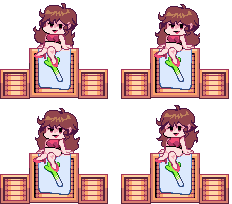
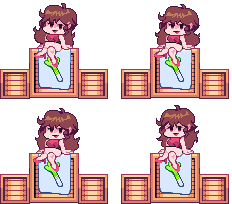
tomongus bg
- added tomongus bg
- tomongus character and camera positions
- made it so screen doesnt start bumping until opponent hits first note
  - this also applies to the add camera zoom event

diff --git a/src/character/bfpixel.c b/src/character/bfpixel.c
@@ -85,40 +85,40 @@ static const CharFrame char_bfpixel_frame[] = {
   {BFPixel_ArcMain_RightM0, {  0,  0, 54, 60}, {162,158}}, //19 rightm 1
   {BFPixel_ArcMain_RightM0, { 54,  0, 53, 59}, {162,157}}, //20 rightm 2
   
-  {BFPixel_ArcMain_IdleS0, {  0,  0, 55, 56}, {165,154}}, //21 idles 1
-  {BFPixel_ArcMain_IdleS0, { 55,  0, 53, 56}, {164,154}}, //22 idles 2
-  {BFPixel_ArcMain_IdleS0, {108,  0, 53, 58}, {163,156}}, //23 idles 3
-  {BFPixel_ArcMain_IdleS0, {161,  0, 53, 59}, {163,157}}, //24 idles 4
-  {BFPixel_ArcMain_IdleS0, {  0, 59, 54, 59}, {164,157}}, //25 idles 5
+  {BFPixel_ArcMain_IdleS0, {  0,  0, 55, 56}, {165+2,154}}, //21 idles 1
+  {BFPixel_ArcMain_IdleS0, { 55,  0, 53, 56}, {164+2,154}}, //22 idles 2
+  {BFPixel_ArcMain_IdleS0, {108,  0, 53, 58}, {163+2,156}}, //23 idles 3
+  {BFPixel_ArcMain_IdleS0, {161,  0, 53, 59}, {163+2,157}}, //24 idles 4
+  {BFPixel_ArcMain_IdleS0, {  0, 59, 54, 59}, {164+2,157}}, //25 idles 5
 
-  {BFPixel_ArcMain_LeftS0, {  0,  0, 53, 59}, {166,157}}, //26 lefts 1
-  {BFPixel_ArcMain_LeftS0, { 53,  0, 52, 59}, {165,157}}, //27 lefts 2
+  {BFPixel_ArcMain_LeftS0, {  0,  0, 53, 59}, {166+2,157}}, //26 lefts 1
+  {BFPixel_ArcMain_LeftS0, { 53,  0, 52, 59}, {165+2,157}}, //27 lefts 2
 
-  {BFPixel_ArcMain_DownS0, {  0,  0, 53, 58}, {164,153}}, //28 downs 1
-  {BFPixel_ArcMain_DownS0, { 53,  0, 51, 58}, {163,154}}, //29 downs 2
+  {BFPixel_ArcMain_DownS0, {  0,  0, 53, 58}, {164+2,153}}, //28 downs 1
+  {BFPixel_ArcMain_DownS0, { 53,  0, 51, 58}, {163+2,154}}, //29 downs 2
 
-  {BFPixel_ArcMain_UpS0, {  0,  0, 57, 62}, {164,160}}, //30 ups 1
-  {BFPixel_ArcMain_UpS0, { 57,  0, 58, 61}, {165,159}}, //31 ups 2
+  {BFPixel_ArcMain_UpS0, {  0,  0, 57, 62}, {164+2,160}}, //30 ups 1
+  {BFPixel_ArcMain_UpS0, { 57,  0, 58, 61}, {165+2,159}}, //31 ups 2
 
-  {BFPixel_ArcMain_RightS0, {  0,  0, 50, 59}, {157,156}}, //32 rights 1
-  {BFPixel_ArcMain_RightS0, { 50,  0, 51, 59}, {158,156}}, //33 rights 2
+  {BFPixel_ArcMain_RightS0, {  0,  0, 50, 59}, {157+2,156}}, //32 rights 1
+  {BFPixel_ArcMain_RightS0, { 50,  0, 51, 59}, {158+2,156}}, //33 rights 2
 
-  {BFPixel_ArcMain_LeftSM0, {  0,  0, 51, 59}, {165,157}}, //34 leftsm 1
-  {BFPixel_ArcMain_LeftSM0, { 51,  0, 52, 59}, {165,157}}, //35 leftsm 2
+  {BFPixel_ArcMain_LeftSM0, {  0,  0, 51, 59}, {165+2,157}}, //34 leftsm 1
+  {BFPixel_ArcMain_LeftSM0, { 51,  0, 52, 59}, {165+2,157}}, //35 leftsm 2
 
-  {BFPixel_ArcMain_DownSM0, {  0,  0, 52, 61}, {164,156}}, //36 downsm 1
-  {BFPixel_ArcMain_DownSM0, { 52,  0, 51, 59}, {163,155}}, //37 downsm 2
+  {BFPixel_ArcMain_DownSM0, {  0,  0, 52, 61}, {164+2,156}}, //36 downsm 1
+  {BFPixel_ArcMain_DownSM0, { 52,  0, 51, 59}, {163+2,155}}, //37 downsm 2
 
-  {BFPixel_ArcMain_UpSM0, {  0,  0, 56, 62}, {163,160}}, //38 upsm 1
-  {BFPixel_ArcMain_UpSM0, { 56,  0, 58, 61}, {165,159}}, //39 upsm 2
+  {BFPixel_ArcMain_UpSM0, {  0,  0, 56, 62}, {163+2,160}}, //38 upsm 1
+  {BFPixel_ArcMain_UpSM0, { 56,  0, 58, 61}, {165+2,159}}, //39 upsm 2
 
-  {BFPixel_ArcMain_RighSM0, {  0,  0, 52, 61}, {158,158}}, //40 righsm 1
-  {BFPixel_ArcMain_RighSM0, { 52,  0, 51, 60}, {158,157}}, //41 righsm 2
+  {BFPixel_ArcMain_RighSM0, {  0,  0, 52, 61}, {158+2,158}}, //40 righsm 1
+  {BFPixel_ArcMain_RighSM0, { 52,  0, 51, 60}, {158+2,157}}, //41 righsm 2
 
-  {BFPixel_ArcMain_Shoot0, {  0,  0, 60, 58}, {167,156}}, //42 shoot 1
-  {BFPixel_ArcMain_Shoot0, { 60,  0, 62, 58}, {169,156}}, //43 shoot 2
-  {BFPixel_ArcMain_Shoot0, {122,  0, 63, 58}, {170,156}}, //44 shoot 3
-  {BFPixel_ArcMain_Shoot0, {185,  0, 56, 59}, {166,157}}, //45 shoot 4
+  {BFPixel_ArcMain_Shoot0, {  0,  0, 60, 58}, {167+2,156}}, //42 shoot 1
+  {BFPixel_ArcMain_Shoot0, { 60,  0, 62, 58}, {169+2,156}}, //43 shoot 2
+  {BFPixel_ArcMain_Shoot0, {122,  0, 63, 58}, {170+2,156}}, //44 shoot 3
+  {BFPixel_ArcMain_Shoot0, {185,  0, 56, 59}, {166+2,157}}, //45 shoot 4
 };
 
 static const Animation char_bfpixel_anim[PlayerAnim_Max] = {
@@ -281,9 +281,9 @@ Character *Char_BFPixel_New(fixed_t x, fixed_t y)
 	//health bar color
 	this->character.health_bar = 0xFF7BD6F6;
 
-	this->character.focus_x = FIXED_DEC(-50,1);
-	this->character.focus_y = FIXED_DEC(-65,1);
-	this->character.focus_zoom = FIXED_DEC(1,1);
+	this->character.focus_x = FIXED_DEC(-182,1);
+	this->character.focus_y = FIXED_DEC(-148,1);
+	this->character.focus_zoom = FIXED_DEC(511,256);
 	
 	this->character.size = FIXED_DEC(1,1);
 

diff --git a/src/stage.c b/src/stage.c
@@ -45,6 +45,7 @@ static const u8 note_anims[4][3] = {
 //Stage definitions
 boolean noteshake;
 boolean show;
+boolean firsthit;
 fixed_t fade;
 fixed_t fade, fadespd;
 static u32 Sounds[10];
@@ -81,6 +82,7 @@ static u32 Sounds[10];
 //Stages
 #include "stage/airship.h"
 #include "stage/lobby.h"
+#include "stage/cafeteria.h"
 #include "stage/henry.h"
 #include "stage/idk.h"
 #include "stage/week1.h"
@@ -1447,7 +1449,7 @@ static void Stage_LoadSFX(void)
     }
 	
 	//tomongus shot sound
-	if (stage.stage_id == StageId_Rivals)
+	if ((stage.stage_id == StageId_SussyBussy) || (stage.stage_id == StageId_Rivals))
 	{
 		char text[0x80];
 		sprintf(text, "\\SOUNDS\\TOMSHOT.VAG;1");
@@ -1563,11 +1565,13 @@ static void Stage_LoadMusic(void)
 	if (stage.stage_id == StageId_Temp) //PLACEHOLDER
 	{
 		stage.intro = true;
+		firsthit = false;
 		stage.note_scroll = FIXED_DEC(-5 * 6 * 12,1);
 	}
 	else
 	{
 		stage.intro = true;
+		firsthit = false;
 		stage.note_scroll = FIXED_DEC(-5 * 6 * 12,1);
 	}
 	stage.song_time = FIXED_DIV(stage.note_scroll, stage.step_crochet);
@@ -1712,13 +1716,13 @@ void Stage_Load(StageId id, StageDiff difficulty, boolean story)
 	
 	//Load death screen texture
 	if (stage.stage_id == StageId_Roomcode)
-		Gfx_LoadTex(&stage.tex_ded, IO_Read("\\CHAR\\DEADPCO.TIM;1"), GFX_LOADTEX_FREE);
+		Gfx_LoadTex(&stage.tex_ded, IO_Read("\\DEAD\\DEADPCO.TIM;1"), GFX_LOADTEX_FREE);
 	else if ((stage.stage_id >= StageId_SussyBussy) && (stage.stage_id <= StageId_Chewmate))
-		Gfx_LoadTex(&stage.tex_ded, IO_Read("\\CHAR\\DEADPIX.TIM;1"), GFX_LOADTEX_FREE);
+		Gfx_LoadTex(&stage.tex_ded, IO_Read("\\DEAD\\DEADPIX.TIM;1"), GFX_LOADTEX_FREE);
 	else if (stage.stage_id == StageId_Idk)
-		Gfx_LoadTex(&stage.tex_ded, IO_Read("\\CHAR\\DEADKID.TIM;1"), GFX_LOADTEX_FREE);
+		Gfx_LoadTex(&stage.tex_ded, IO_Read("\\DEAD\\DEADKID.TIM;1"), GFX_LOADTEX_FREE);
 	else
-		Gfx_LoadTex(&stage.tex_ded, IO_Read("\\CHAR\\DEAD.TIM;1"), GFX_LOADTEX_FREE);
+		Gfx_LoadTex(&stage.tex_ded, IO_Read("\\DEAD\\DEAD.TIM;1"), GFX_LOADTEX_FREE);
 
 	//Load stage background
 	Stage_LoadStage();
@@ -2227,12 +2231,14 @@ void Stage_Tick(void)
 			}
             
 			//Handle bump
-			if ((stage.bump = FIXED_UNIT + FIXED_MUL(stage.bump - FIXED_UNIT, FIXED_DEC(95,100))) <= FIXED_DEC(1003,1000))
-				stage.bump = FIXED_UNIT;
+			if ((firsthit == true) || (stage.song_step <= -1))
+			{
+				if ((stage.bump = FIXED_UNIT + FIXED_MUL(stage.bump - FIXED_UNIT, FIXED_DEC(95,100))) <= FIXED_DEC(1003,1000))
+					stage.bump = FIXED_UNIT;
+				if ((stage.charbump = FIXED_UNIT + FIXED_MUL(stage.charbump - FIXED_UNIT, FIXED_DEC(95,100))) <= FIXED_DEC(1003,1000))
+					stage.charbump = FIXED_UNIT;
+			}
 			stage.sbump = FIXED_UNIT + FIXED_MUL(stage.sbump - FIXED_UNIT, FIXED_DEC(60,100));
-			
-			if ((stage.charbump = FIXED_UNIT + FIXED_MUL(stage.charbump - FIXED_UNIT, FIXED_DEC(95,100))) <= FIXED_DEC(1003,1000))
-				stage.charbump = FIXED_UNIT;
 			
 			if (playing && (stage.flag & STAGE_FLAG_JUST_STEP))
 			{
@@ -2242,12 +2248,15 @@ void Stage_Tick(void)
 				is_bump_step = (stage.song_step & 0xF) == 0;
 				
 				//Bump screen
-				if((stage.stage_id != StageId_Idk))
+				if (firsthit == true)
 				{
-					if (is_bump_step)
+					if((stage.stage_id != StageId_VotingTime) && (stage.stage_id != StageId_Who) && (stage.stage_id != StageId_Idk))
 					{
-						stage.bump = FIXED_DEC(103,100);
-						stage.charbump += FIXED_DEC(15,1000); //0.015
+						if (is_bump_step)
+						{
+							stage.bump = FIXED_DEC(103,100);
+							stage.charbump += FIXED_DEC(15,1000); //0.015
+						}
 					}
 				}
 
@@ -2381,6 +2390,9 @@ void Stage_Tick(void)
 						//Opponent note hits
 						if (playing && ((note->type ^ stage.note_swap) & NOTE_FLAG_OPPONENT) && !(note->type & NOTE_FLAG_HIT))
 						{
+							if (firsthit == false)
+								firsthit = true;
+							
 							//Opponent hits note
 							stage.player_state[1].arrow_hitan[note->type & 0x3] = stage.step_time;
 							Stage_StartVocal();

diff --git a/src/stage/cafeteria.c b/src/stage/cafeteria.c
@@ -1,0 +1,89 @@
+/*
+  This Source Code Form is subject to the terms of the Mozilla Public
+  License, v. 2.0. If a copy of the MPL was not distributed with this
+  file, You can obtain one at http://mozilla.org/MPL/2.0/.
+*/
+
+#include "cafeteria.h"
+
+#include "../archive.h"
+#include "../mem.h"
+#include "../stage.h"
+#include "../random.h"
+#include "../timer.h"
+#include "../animation.h"
+
+//Cafeteria background structure
+typedef struct
+{
+	//Stage background base structure
+	StageBack back;
+	
+	//Textures
+	Gfx_Tex tex_back0; //back0
+	Gfx_Tex tex_back1; //back1
+
+} Back_Cafeteria;
+
+
+void Back_Cafeteria_DrawBG(StageBack *back)
+{
+	Back_Cafeteria *this = (Back_Cafeteria*)back;
+
+	fixed_t fx, fy;
+
+	//Draw cafeteria
+	fx = stage.camera.x;
+	fy = stage.camera.y;
+	
+	RECT back0_src = {  0,  0,156,161};
+	RECT_FIXED back0_dst = {
+		FIXED_DEC(0 - screen.SCREEN_WIDEOADD2,1) - fx,
+		FIXED_DEC(0,1) - fy,
+		FIXED_DEC(156 + screen.SCREEN_WIDEOADD,1),
+		FIXED_DEC(161,1)
+	};
+	
+	RECT back1_src = {  0,  0,156,161};
+	RECT_FIXED back1_dst = {
+		FIXED_DEC(155 - screen.SCREEN_WIDEOADD2,1) - fx,
+		FIXED_DEC(0,1) - fy,
+		FIXED_DEC(156 + screen.SCREEN_WIDEOADD,1),
+		FIXED_DEC(161,1)
+	};
+	
+	Debug_StageMoveDebug(&back0_dst, 5, fx, fy);
+	Debug_StageMoveDebug(&back1_dst, 6, fx, fy);
+	Stage_DrawTex(&this->tex_back0, &back0_src, &back0_dst, stage.camera.bzoom);
+	Stage_DrawTex(&this->tex_back1, &back1_src, &back1_dst, stage.camera.bzoom);
+}
+
+void Back_Cafeteria_Free(StageBack *back)
+{
+	Back_Cafeteria *this = (Back_Cafeteria*)back;
+	
+	//Free structure
+	Mem_Free(this);
+}
+
+StageBack *Back_Cafeteria_New(void)
+{
+	//Allocate background structure
+	Back_Cafeteria *this = (Back_Cafeteria*)Mem_Alloc(sizeof(Back_Cafeteria));
+	if (this == NULL)
+		return NULL;
+	
+	//Set background functions
+	this->back.draw_fg = NULL;
+	this->back.draw_md = NULL;
+	this->back.draw_bg = Back_Cafeteria_DrawBG;
+	this->back.free = Back_Cafeteria_Free;
+	
+	//Load background textures
+	IO_Data arc_back = IO_Read("\\BG\\CAFE.ARC;1");
+	Gfx_LoadTex(&this->tex_back0, Archive_Find(arc_back, "back0.tim"), 0);
+	Gfx_LoadTex(&this->tex_back1, Archive_Find(arc_back, "back1.tim"), 0);
+	Mem_Free(arc_back);
+	
+	return (StageBack*)this;
+}

diff --git a/src/stagedef_disc1.h b/src/stagedef_disc1.h
@@ -543,50 +543,50 @@
 	
 	{ //StageId_SussyBussy (Sussy Bussy)
 		//Characters
-		{Char_BFPixel_New,    FIXED_DEC(60,1),  FIXED_DEC(100,1)},
+		{Char_BFPixel_New,    FIXED_DEC(342,1),  FIXED_DEC(226,1)},
         {NULL},
-		{Char_Tomongus_New, FIXED_DEC(-20,1),  FIXED_DEC(100,1)},
-        {NULL},
-		{Char_GFPixel_New,     FIXED_DEC(0,1),  FIXED_DEC(-10,1)},
+		{Char_Tomongus_New, FIXED_DEC(198,1),  FIXED_DEC(229,1)},
+        {Char_TomongusH_New, FIXED_DEC(198,1),  FIXED_DEC(233,1)},
+		{Char_GFPixel_New,     FIXED_DEC(258,1),  FIXED_DEC(174,1)},
 		
 		//Stage background
-		Back_Dummy_New,
+		Back_Cafeteria_New,
 		
 		//Song info
 		4, 1,
 		XA_SussyBussy, 0,
 		"Sussy Bussy",
 		
-		StageId_Rivals, 0
+		StageId_Rivals, STAGE_LOAD_FLAG
 	},
 	{ //StageId_Rivals (Rivals)
 		//Characters
-		{Char_BFPixel_New,    FIXED_DEC(60,1),  FIXED_DEC(100,1)},
+		{Char_BFPixel_New,    FIXED_DEC(342,1),  FIXED_DEC(226,1)},
         {NULL},
-		{Char_Tomongus_New, FIXED_DEC(-20,1),  FIXED_DEC(100,1)},
-        {Char_TomongusH_New, FIXED_DEC(-20,1),  FIXED_DEC(104,1)},
-		{Char_GFPixel_New,     FIXED_DEC(0,1),  FIXED_DEC(-10,1)},
+		{Char_Tomongus_New, FIXED_DEC(198,1),  FIXED_DEC(229,1)},
+        {Char_TomongusH_New, FIXED_DEC(198,1),  FIXED_DEC(233,1)},
+		{Char_GFPixel_New,     FIXED_DEC(258,1),  FIXED_DEC(174,1)},
 		
 		//Stage background
-		Back_Dummy_New,
+		Back_Cafeteria_New,
 		
 		//Song info
 		4, 2,
 		XA_Rivals, 2,
 		"Rivals",
 		
-		StageId_Chewmate, 0
+		StageId_Chewmate, STAGE_LOAD_FLAG | STAGE_LOAD_OPPONENT | STAGE_LOAD_OPPONENT2
 	},
 	{ //StageId_Chewmate (Chewmate)
 		//Characters
-		{Char_BFPixel_New,    FIXED_DEC(60,1),  FIXED_DEC(100,1)},
+		{Char_BFPixel_New,    FIXED_DEC(342,1),  FIXED_DEC(226,1)},
         {NULL},
-		{Char_TomongusH_New, FIXED_DEC(-20,1),  FIXED_DEC(100,1)},
+        {Char_TomongusH_New, FIXED_DEC(198,1),  FIXED_DEC(233,1)},
         {NULL},
-		{Char_GFPixel_New,     FIXED_DEC(0,1),  FIXED_DEC(-10,1)},
+		{Char_GFPixel_New,     FIXED_DEC(258,1),  FIXED_DEC(174,1)},
 		
 		//Stage background
-		Back_Dummy_New,
+		Back_Cafeteria_New,
 		
 		//Song info
 		4, 3,

diff --git a/src/character/tomongush.c b/src/character/tomongush.c
@@ -97,7 +97,7 @@ void Char_TomongusH_Tick(Character *character)
 	
 	//Animate and draw
 	Animatable_Animate(&character->animatable, (void*)this, Char_TomongusH_SetFrame);
-	if (stage.stage_id != StageId_Rivals)
+	if ((stage.stage_id != StageId_SussyBussy) && (stage.stage_id != StageId_Rivals))
 		Character_Draw(character, &this->tex, &char_tomongush_frame[this->frame]);
 	else if ((stage.stage_id == StageId_Rivals) && (stage.song_step >= 1034))
 		Character_Draw(character, &this->tex, &char_tomongush_frame[this->frame]);
@@ -145,9 +145,9 @@ Character *Char_TomongusH_New(fixed_t x, fixed_t y)
 	//health bar color
 	this->character.health_bar = 0xFFF8A572;
 	
-	this->character.focus_x = FIXED_DEC(65,1);
-	this->character.focus_y = FIXED_DEC(-115,1);
-	this->character.focus_zoom = FIXED_DEC(1,1);
+	this->character.focus_x = FIXED_DEC(-82,1);
+	this->character.focus_y = FIXED_DEC(-155,1);
+	this->character.focus_zoom = FIXED_DEC(511,256);
 	
 	this->character.size = FIXED_DEC(1,1);
 	

diff --git a/src/character/tomongus.c b/src/character/tomongus.c
@@ -148,9 +148,9 @@ Character *Char_Tomongus_New(fixed_t x, fixed_t y)
 	//health bar color
 	this->character.health_bar = 0xFFFF6770;
 	
-	this->character.focus_x = FIXED_DEC(65,1);
-	this->character.focus_y = FIXED_DEC(-115,1);
-	this->character.focus_zoom = FIXED_DEC(1,1);
+	this->character.focus_x = FIXED_DEC(-82,1);
+	this->character.focus_y = FIXED_DEC(-151,1);
+	this->character.focus_zoom = FIXED_DEC(511,256);
 	
 	this->character.size = FIXED_DEC(1,1);
 	

diff --git a/src/stage/cafeteria.h b/src/stage/cafeteria.h
@@ -1,0 +1,15 @@
+/*
+  This Source Code Form is subject to the terms of the Mozilla Public
+  License, v. 2.0. If a copy of the MPL was not distributed with this
+  file, You can obtain one at http://mozilla.org/MPL/2.0/.
+*/
+
+#ifndef PSXF_GUARD_CAFETERIA_H
+#define PSXF_GUARD_CAFETERIA_H
+
+#include "../stage.h"
+
+//Cafeteria functions
+StageBack *Back_Cafeteria_New();
+
+#endif
